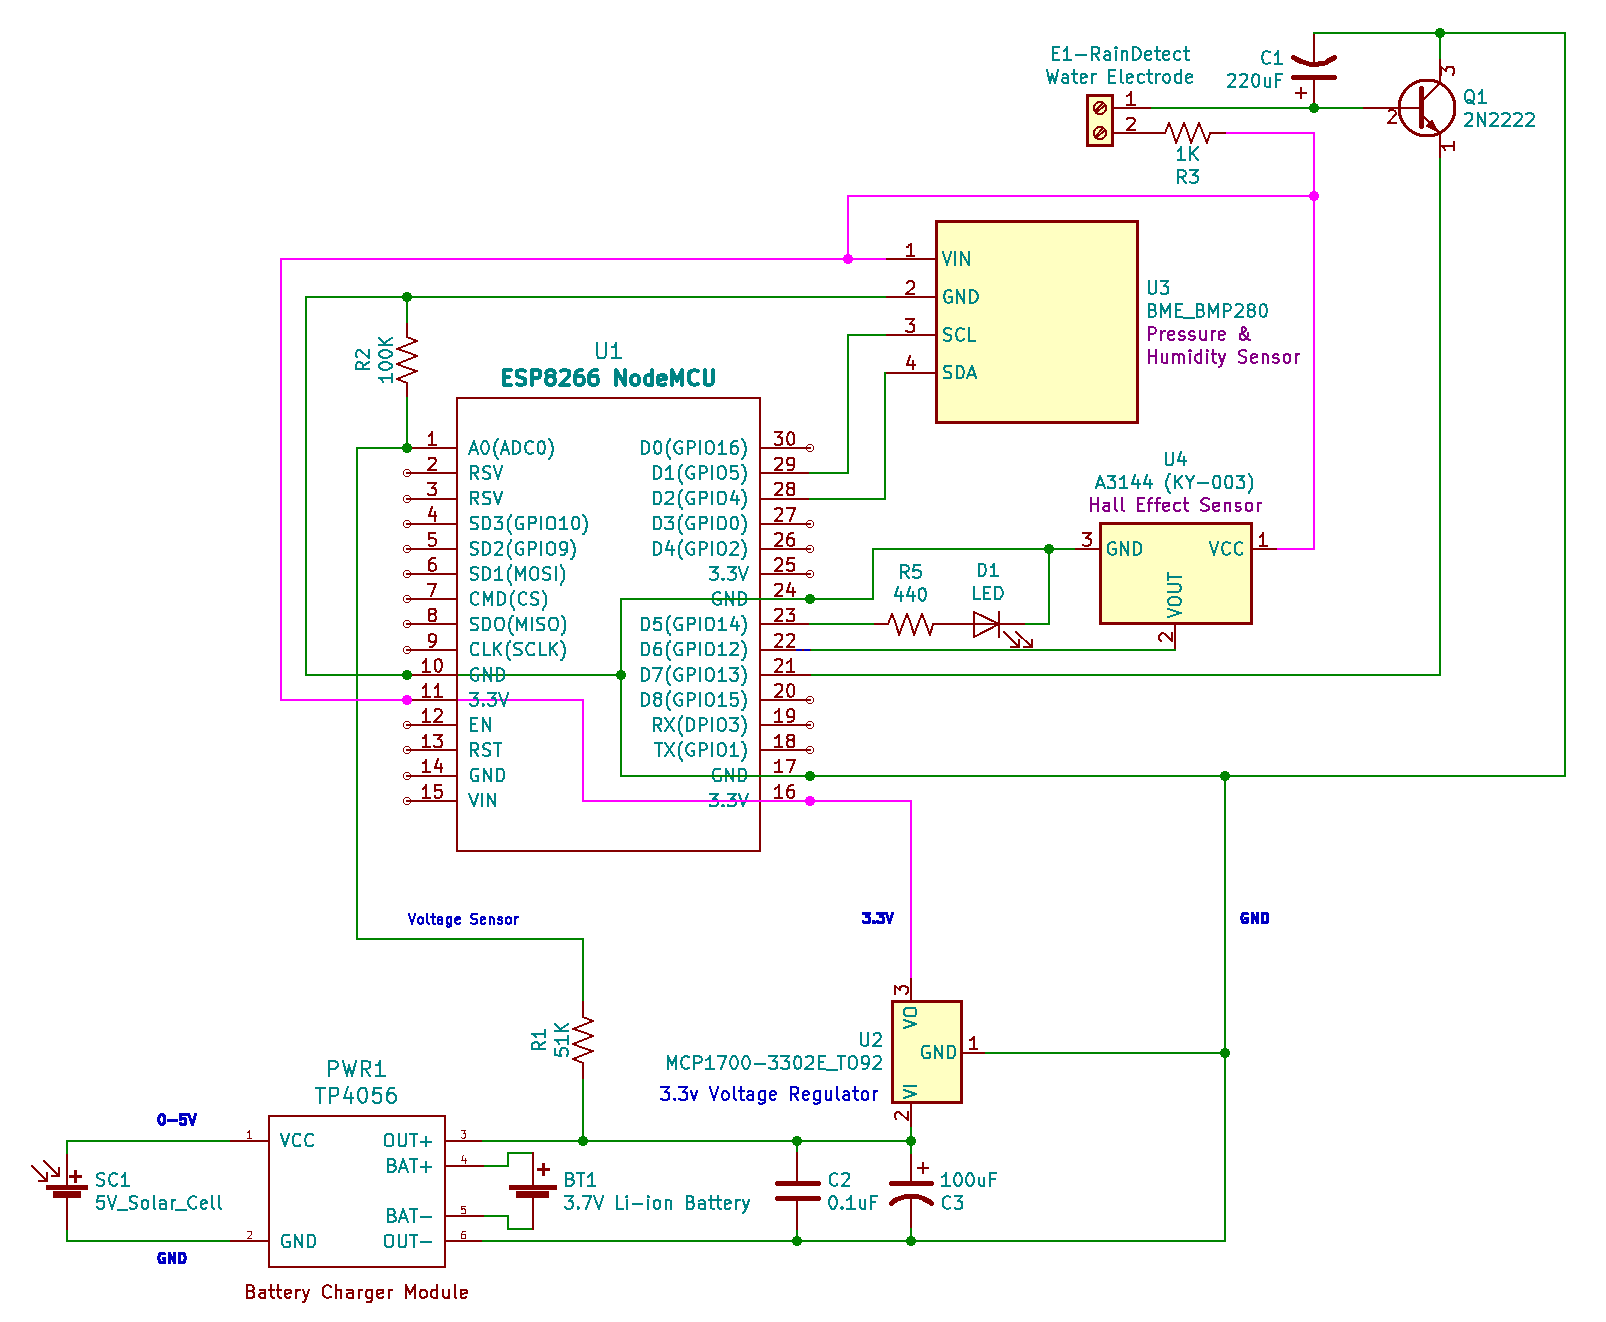
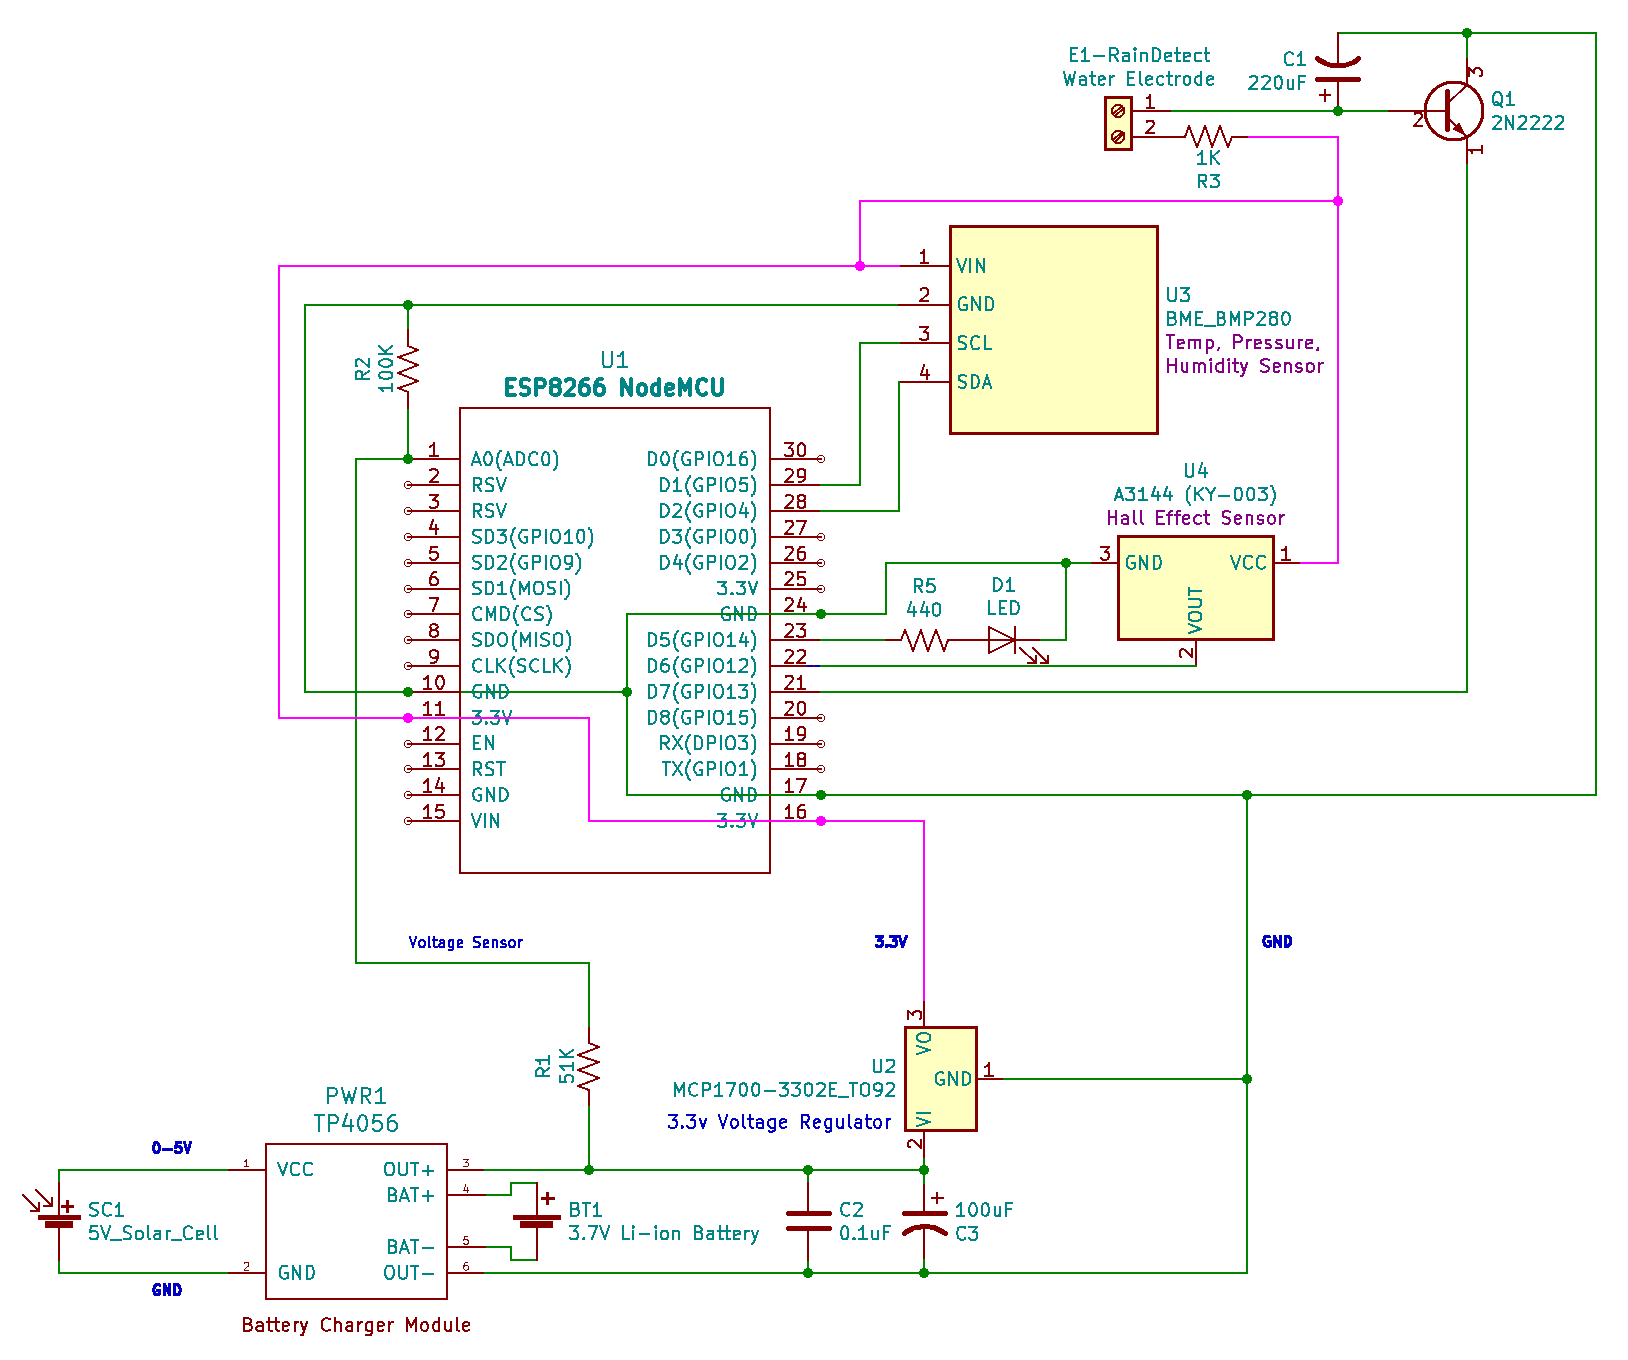
Added 3D Printed Parts

diff --git a/README.md b/README.md
@@ -22,15 +22,17 @@ Note: Currently the circuit prototype is being tested.
 * 1 x BME280 module - [Amazon](https://www.amazon.com/gp/product/B07KYJNFMD/ref=ppx_yo_dt_b_search_asin_title?ie=UTF8&psc=1)
 * 1 x DS18B20 (optional) - [Amazon](https://www.amazon.com/gp/product/B00CHEZ250/ref=ppx_yo_dt_b_search_asin_title?ie=UTF8&psc=1)
 * 1 x 2N2222 NPN (rain detector) - [Amazon](https://www.amazon.com/McIgIcM-2N2222-Transistor-2N2222A-Through/dp/B06XPWS52G/ref=sxin_0_ac_d_pm?ac_md=1-0-VW5kZXIgJDg%3D-ac_d_pm&cv_ct_cx=2N2222&keywords=2N2222&pd_rd_i=B06XPWS52G&pd_rd_r=61542389-ebe1-4638-9974-cc8e7c05b550&pd_rd_w=6ELkQ&pd_rd_wg=xAkuD&pf_rd_p=516e6e17-ed95-417b-b7a4-ad2c7b9cbae3&pf_rd_r=VYHVP95KF3RKJ8RTAEXP&psc=1&qid=1584941623&s=lawn-garden&sr=1-1-22d05c05-1231-4126-b7c4-3e7a9c0027d0)
+* 1 x KY-003 / A3144E Hall Sensor - [Amazon](https://www.amazon.com/gp/product/B085KVV82D/ref=ppx_yo_dt_b_search_asin_title?ie=UTF8&psc=1)
 #### Solar Power Supply
 * 1 x 2.5W 5V/500mAh Solar Cell - [Amazon](https://www.amazon.com/gp/product/B074TYH68Z/ref=ppx_yo_dt_b_search_asin_title?ie=UTF8&psc=1)
 * 1 x 5V Micro USB 1A TP4056 Lithium Battery Charging Board with Protection Charger Module [Amazon](https://www.amazon.com/gp/product/B06XCXPY86/ref=ppx_yo_dt_b_search_asin_title?ie=UTF8&psc=1)
 * 1 x 3.7V 3000mAh 755068 Battery Rechargeable Lithium Polymer ion Battery Pack - [Amazon](https://www.amazon.com/gp/product/B07TTD445R/ref=ppx_yo_dt_b_search_asin_title?ie=UTF8&psc=1)
 * 1 x 3.3V Linear Regulator 250MA TO92-3 - [DigiKey](https://www.digikey.com/product-detail/en/microchip-technology/MCP1700-3302E-TO/MCP1700-3302E-TO-ND/652680)
 #### Misc
+* 1 x GK1007 Solder-able Breadboard [Amazon](https://www.amazon.com/gp/product/B071R3BFNL/ref=ppx_yo_dt_b_search_asin_title?ie=UTF8&psc=1)
 * 1 x 440 Ohm Resistor
 * 1 x 1k Ohm Resistor
-* 1 x 5.1k Ohm Resistor
+* 1 x 5.1k Ohm Resistor (Optional for DS18B20)
 * 1 x 51k Ohm Resistor
 * 1 x 100k Ohm Resistor
 * 1 x Red LED
@@ -39,9 +41,17 @@ Note: Currently the circuit prototype is being tested.
 * 1 x 0.1uF Ceramic Capactior - [Amazon](https://www.amazon.com/Almencla-100Pcs-Ceramic-Capacitor-Electronic/dp/B07LD9T497)
 
 ## Testing
-The prototype has been tested over a week. The solar cell is able to charge the battery sufficiently to last through the night with very little drop in voltage. The following demonstrates the voltage plotted over several days. This data came directly from the ESP8266 as polled on the analog (A0) input every 5 minutes.
+I tested the prototpye for over a week. The solar cell is able to charge the battery sufficiently to last through the night with very little drop in voltage. The following demonstrates the voltage plotted over several days. This data came directly from the ESP8266 as polled on the analog (A0) input every 5 minutes.
 
 ![Voltage over Time](voltage.png)
+
+## 3D Printed Parts
+ANEMOMETER: An anemometer to detect wind speed can be 3D printed from [here](https://www.thingiverse.com/thing:2559929).  I inserted a small 5x1mm cylinder magnet in the cover and added a KY-003 module (a tiny circut board with an A3144E Hall Sensor) in the post to measure the rotation. I removed the built-in LED by cutting the circuit trace from the LED to the signal line in order to save power (and keep the anemometer from flashing all night).
+
+BOX: To house the ESP8266 circuit board, battery and sensors, I create a project box with vents (for the sensor). It can be downloaded [here](https://www.thingiverse.com/thing:4279283).
+
+SOLAR CELL HOLDER: A designed a simple solar panel bracket with TinkerCad and it can be downloaded [here](https://www.thingiverse.com/thing:4279272).
+
 
 ## References
 * Solar Power + Battery + Monitoring - https://randomnerdtutorials.com/power-esp32-esp8266-solar-panels-battery-level-monitoring/
